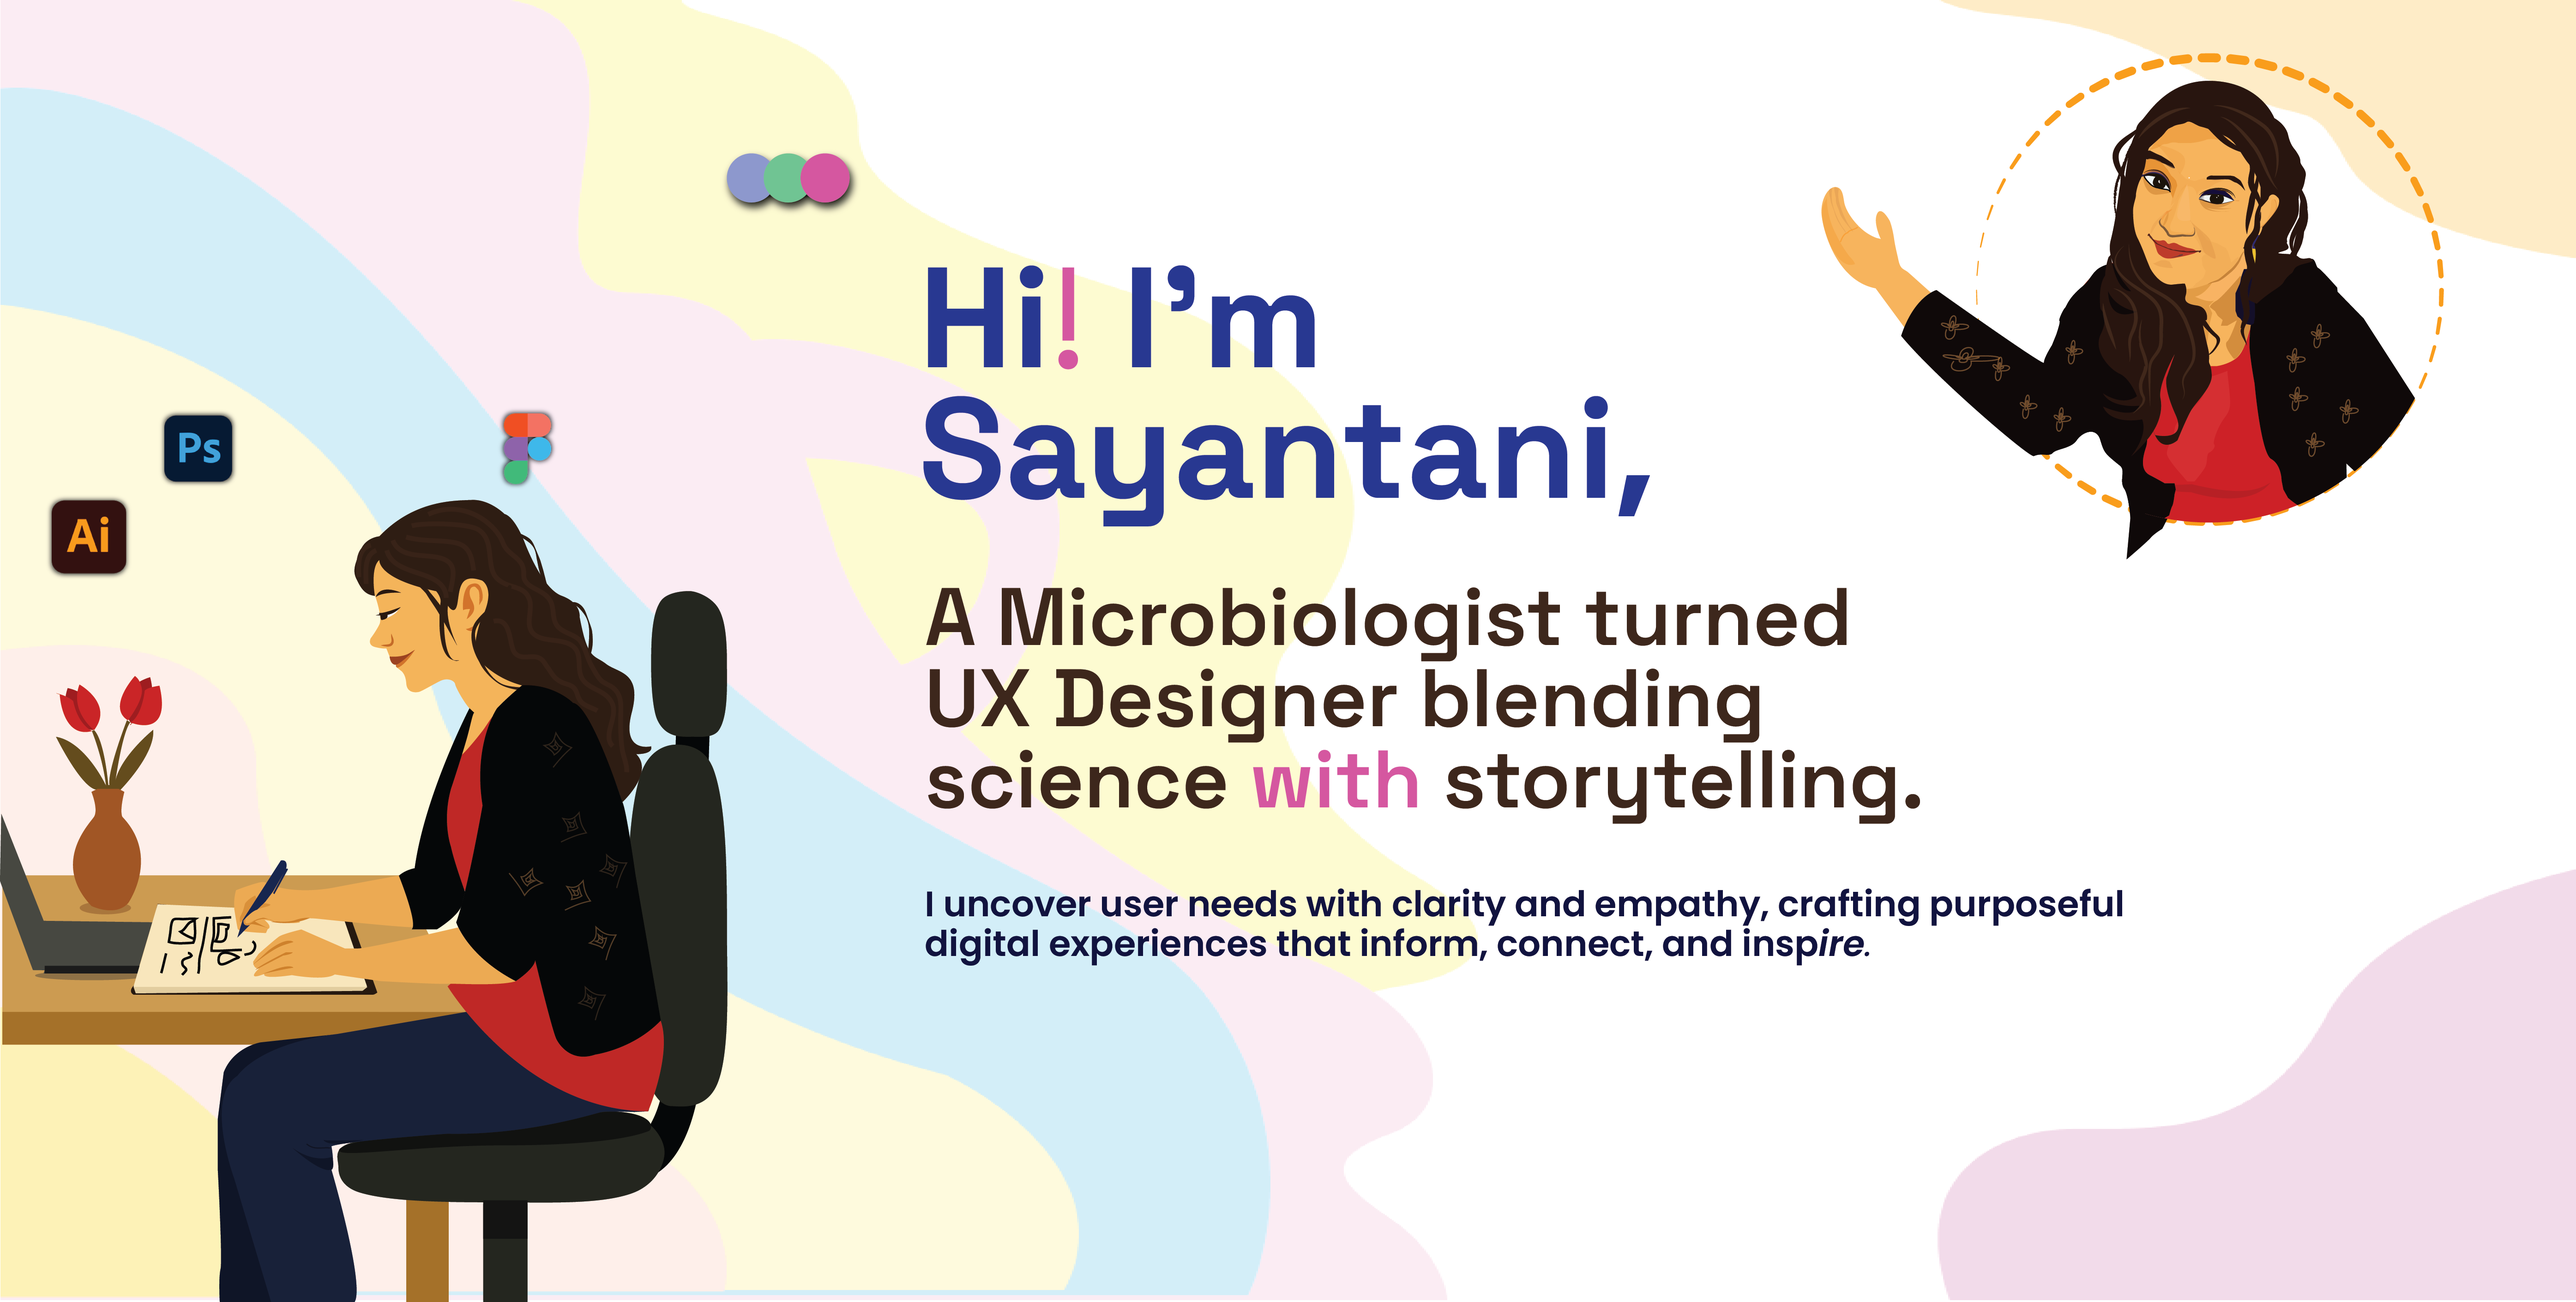
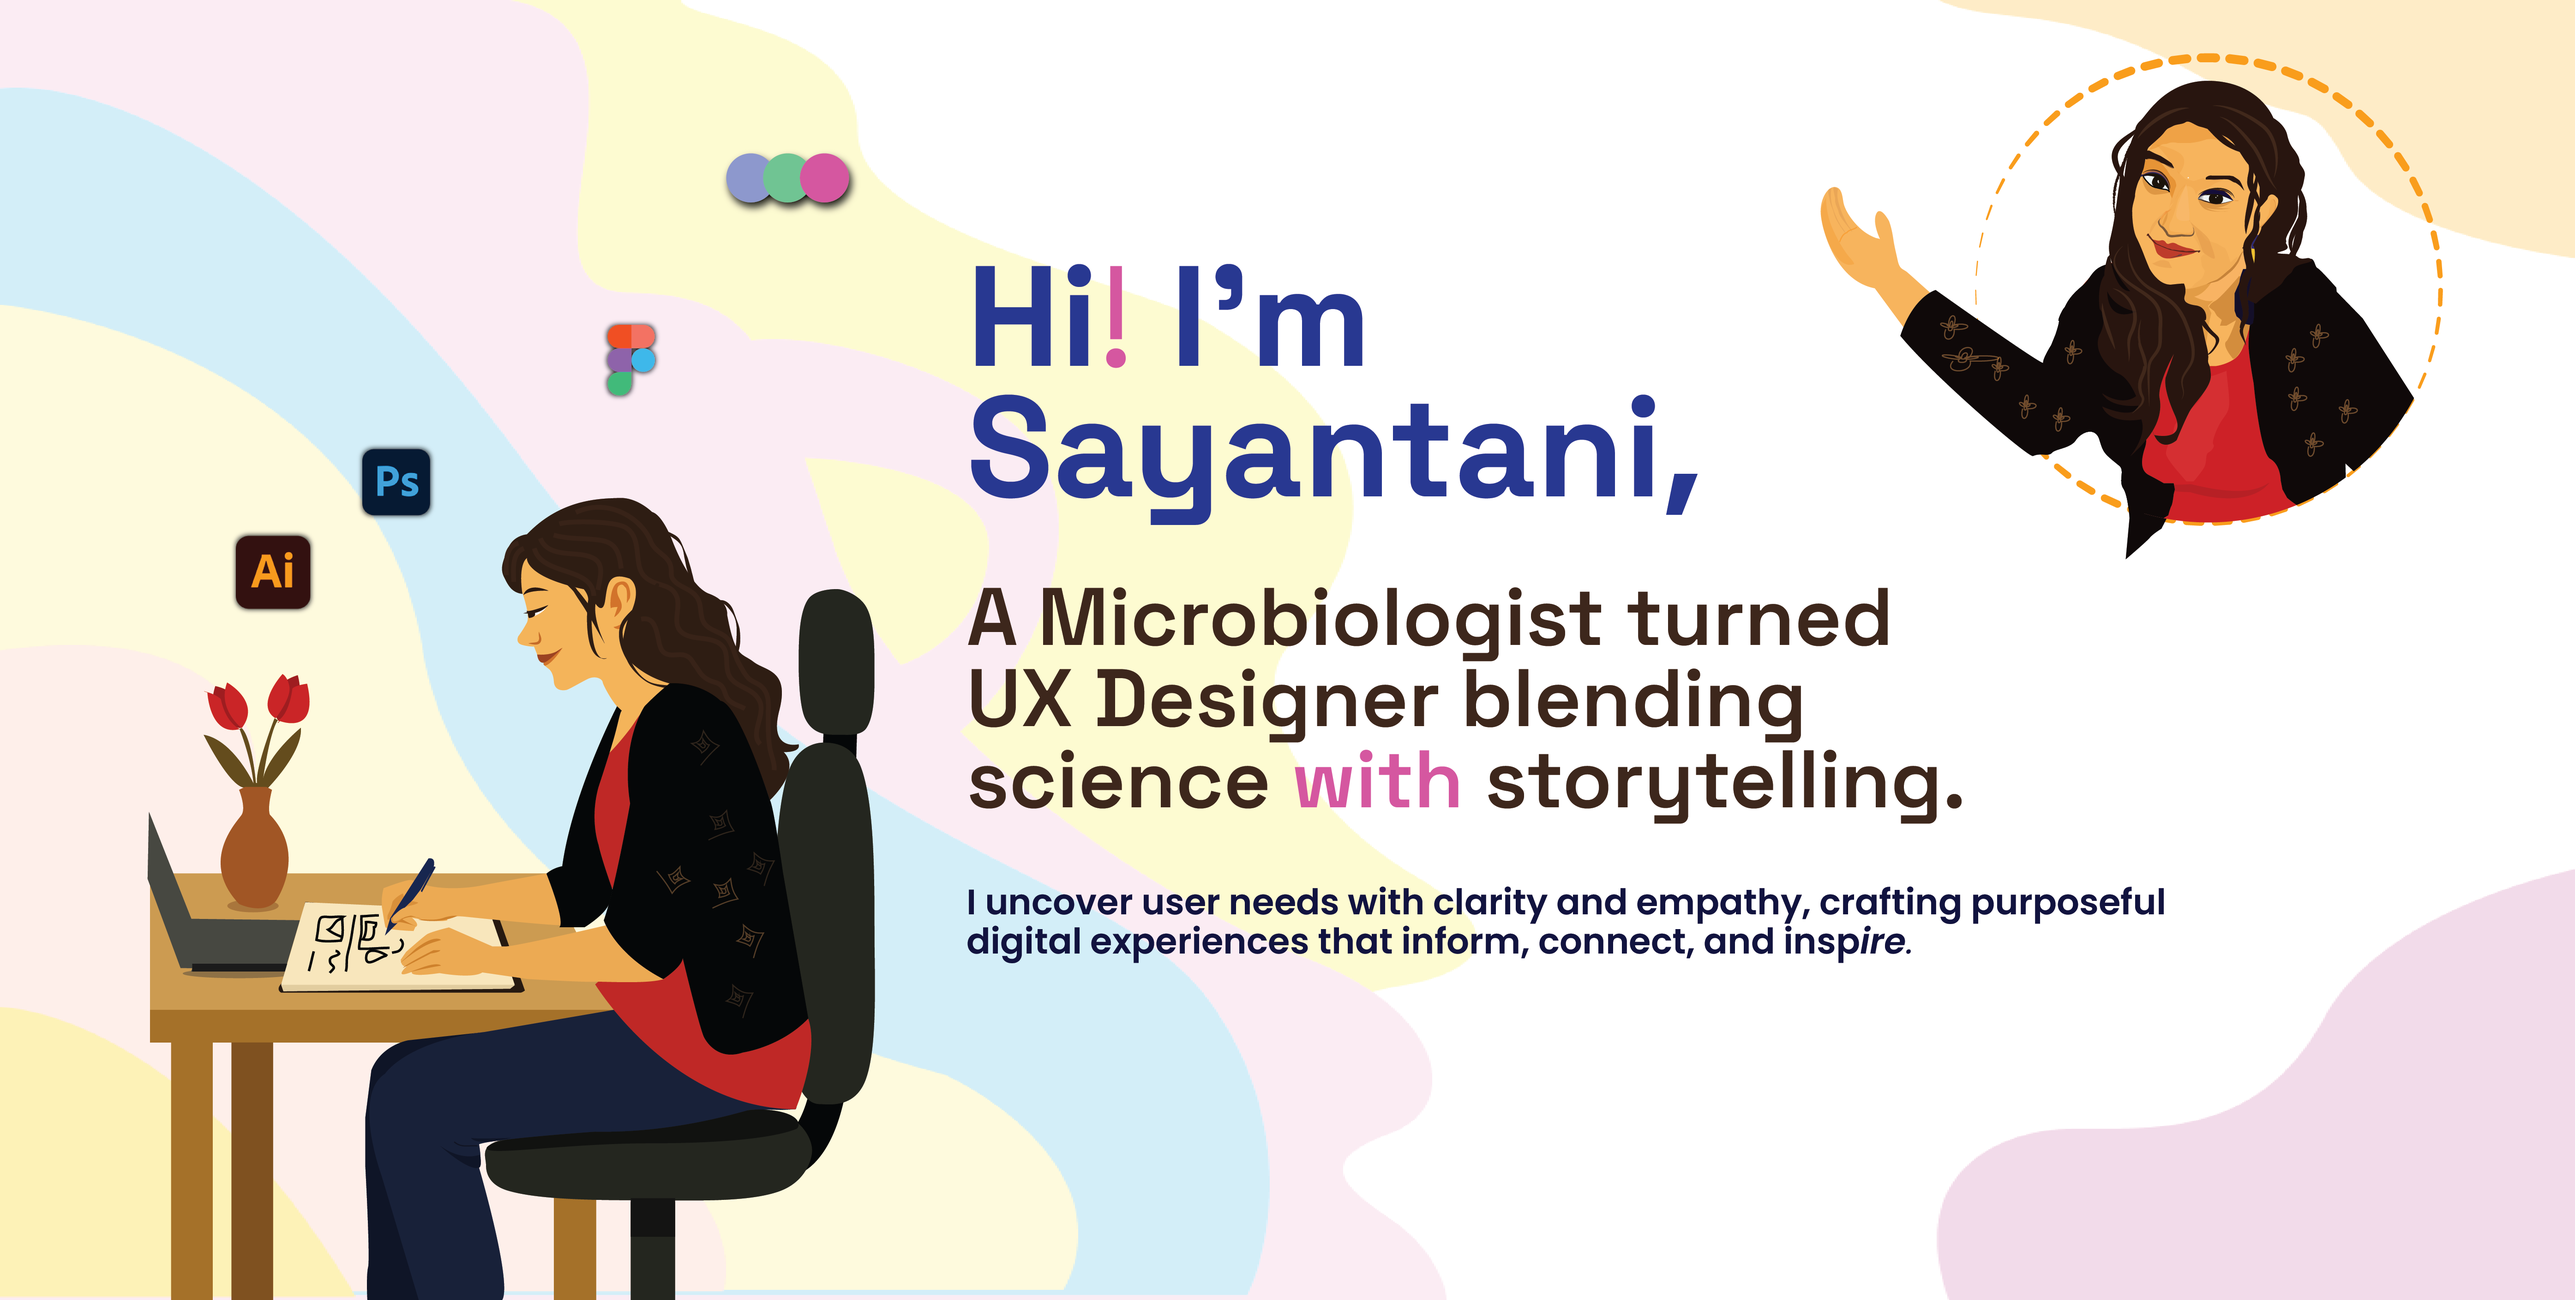
hero image replacement

diff --git a/css/style.css b/css/style.css
@@ -316,7 +316,8 @@ nav a:hover {
   display: flex;
   gap: 40px;
   margin-top: -150px;
-  margin-bottom: 170px;  
+  margin-bottom: 170px; 
+  margin-left: 45px;
 }
 
 /* Primary Button */
